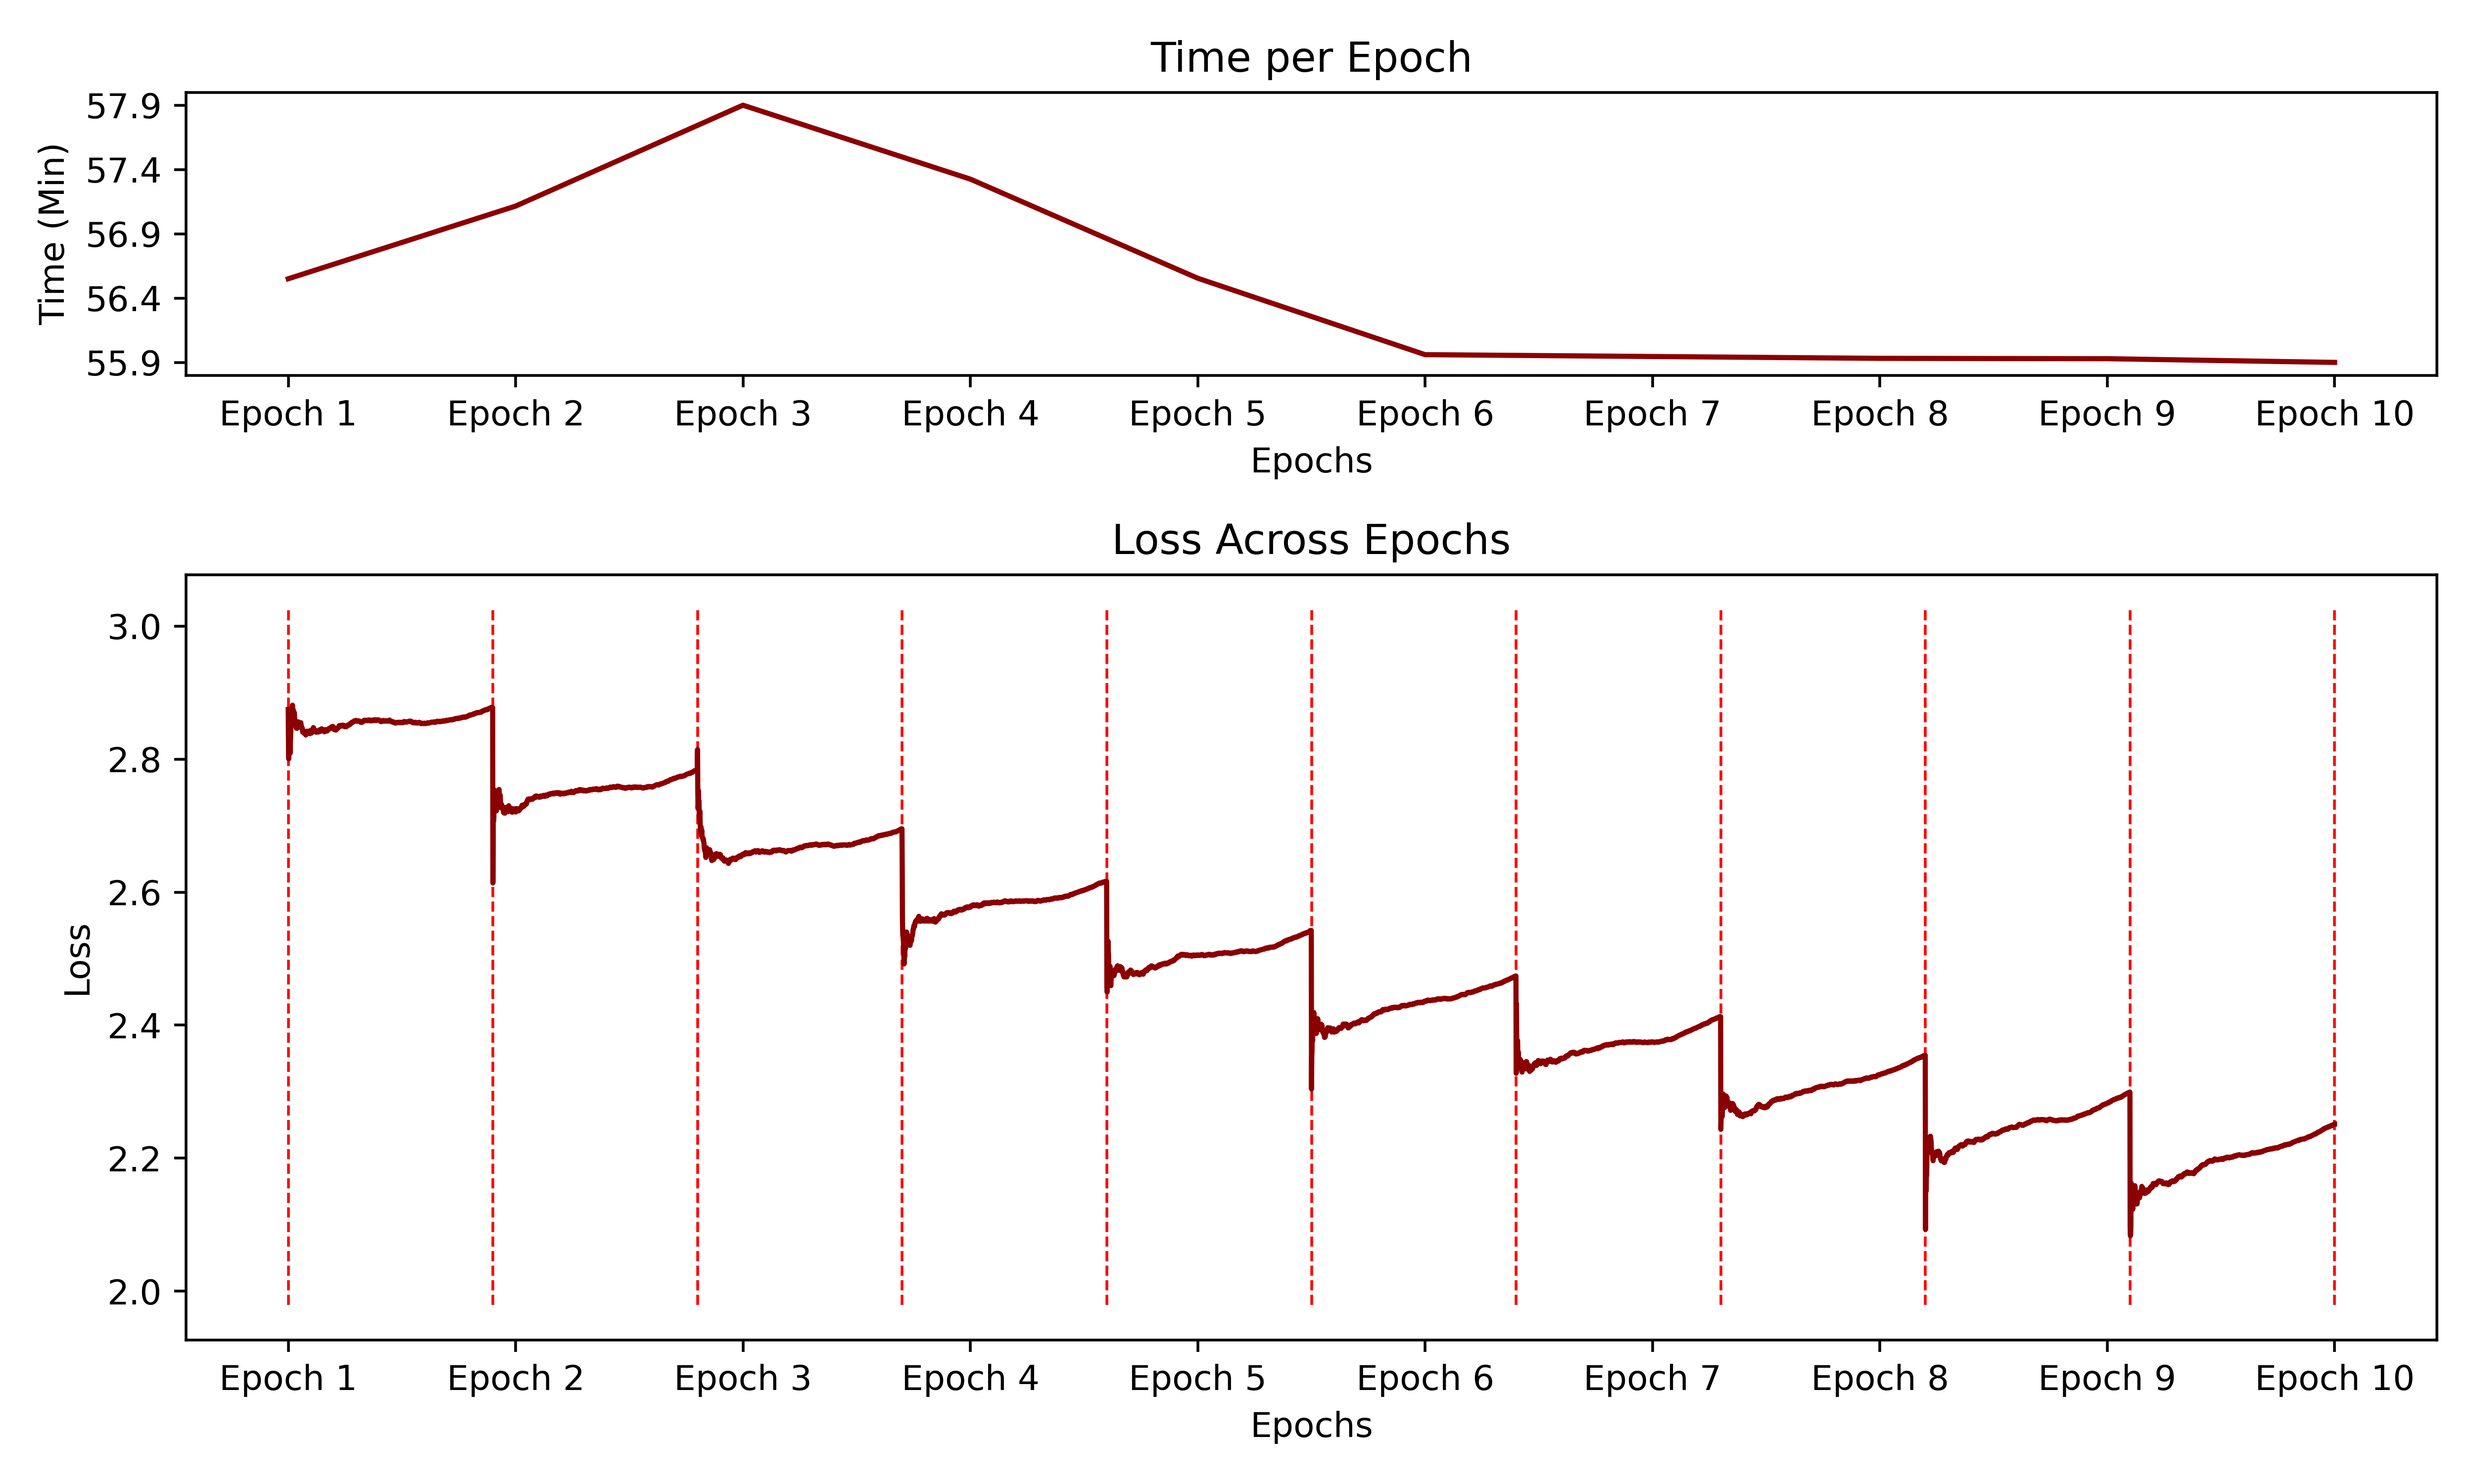
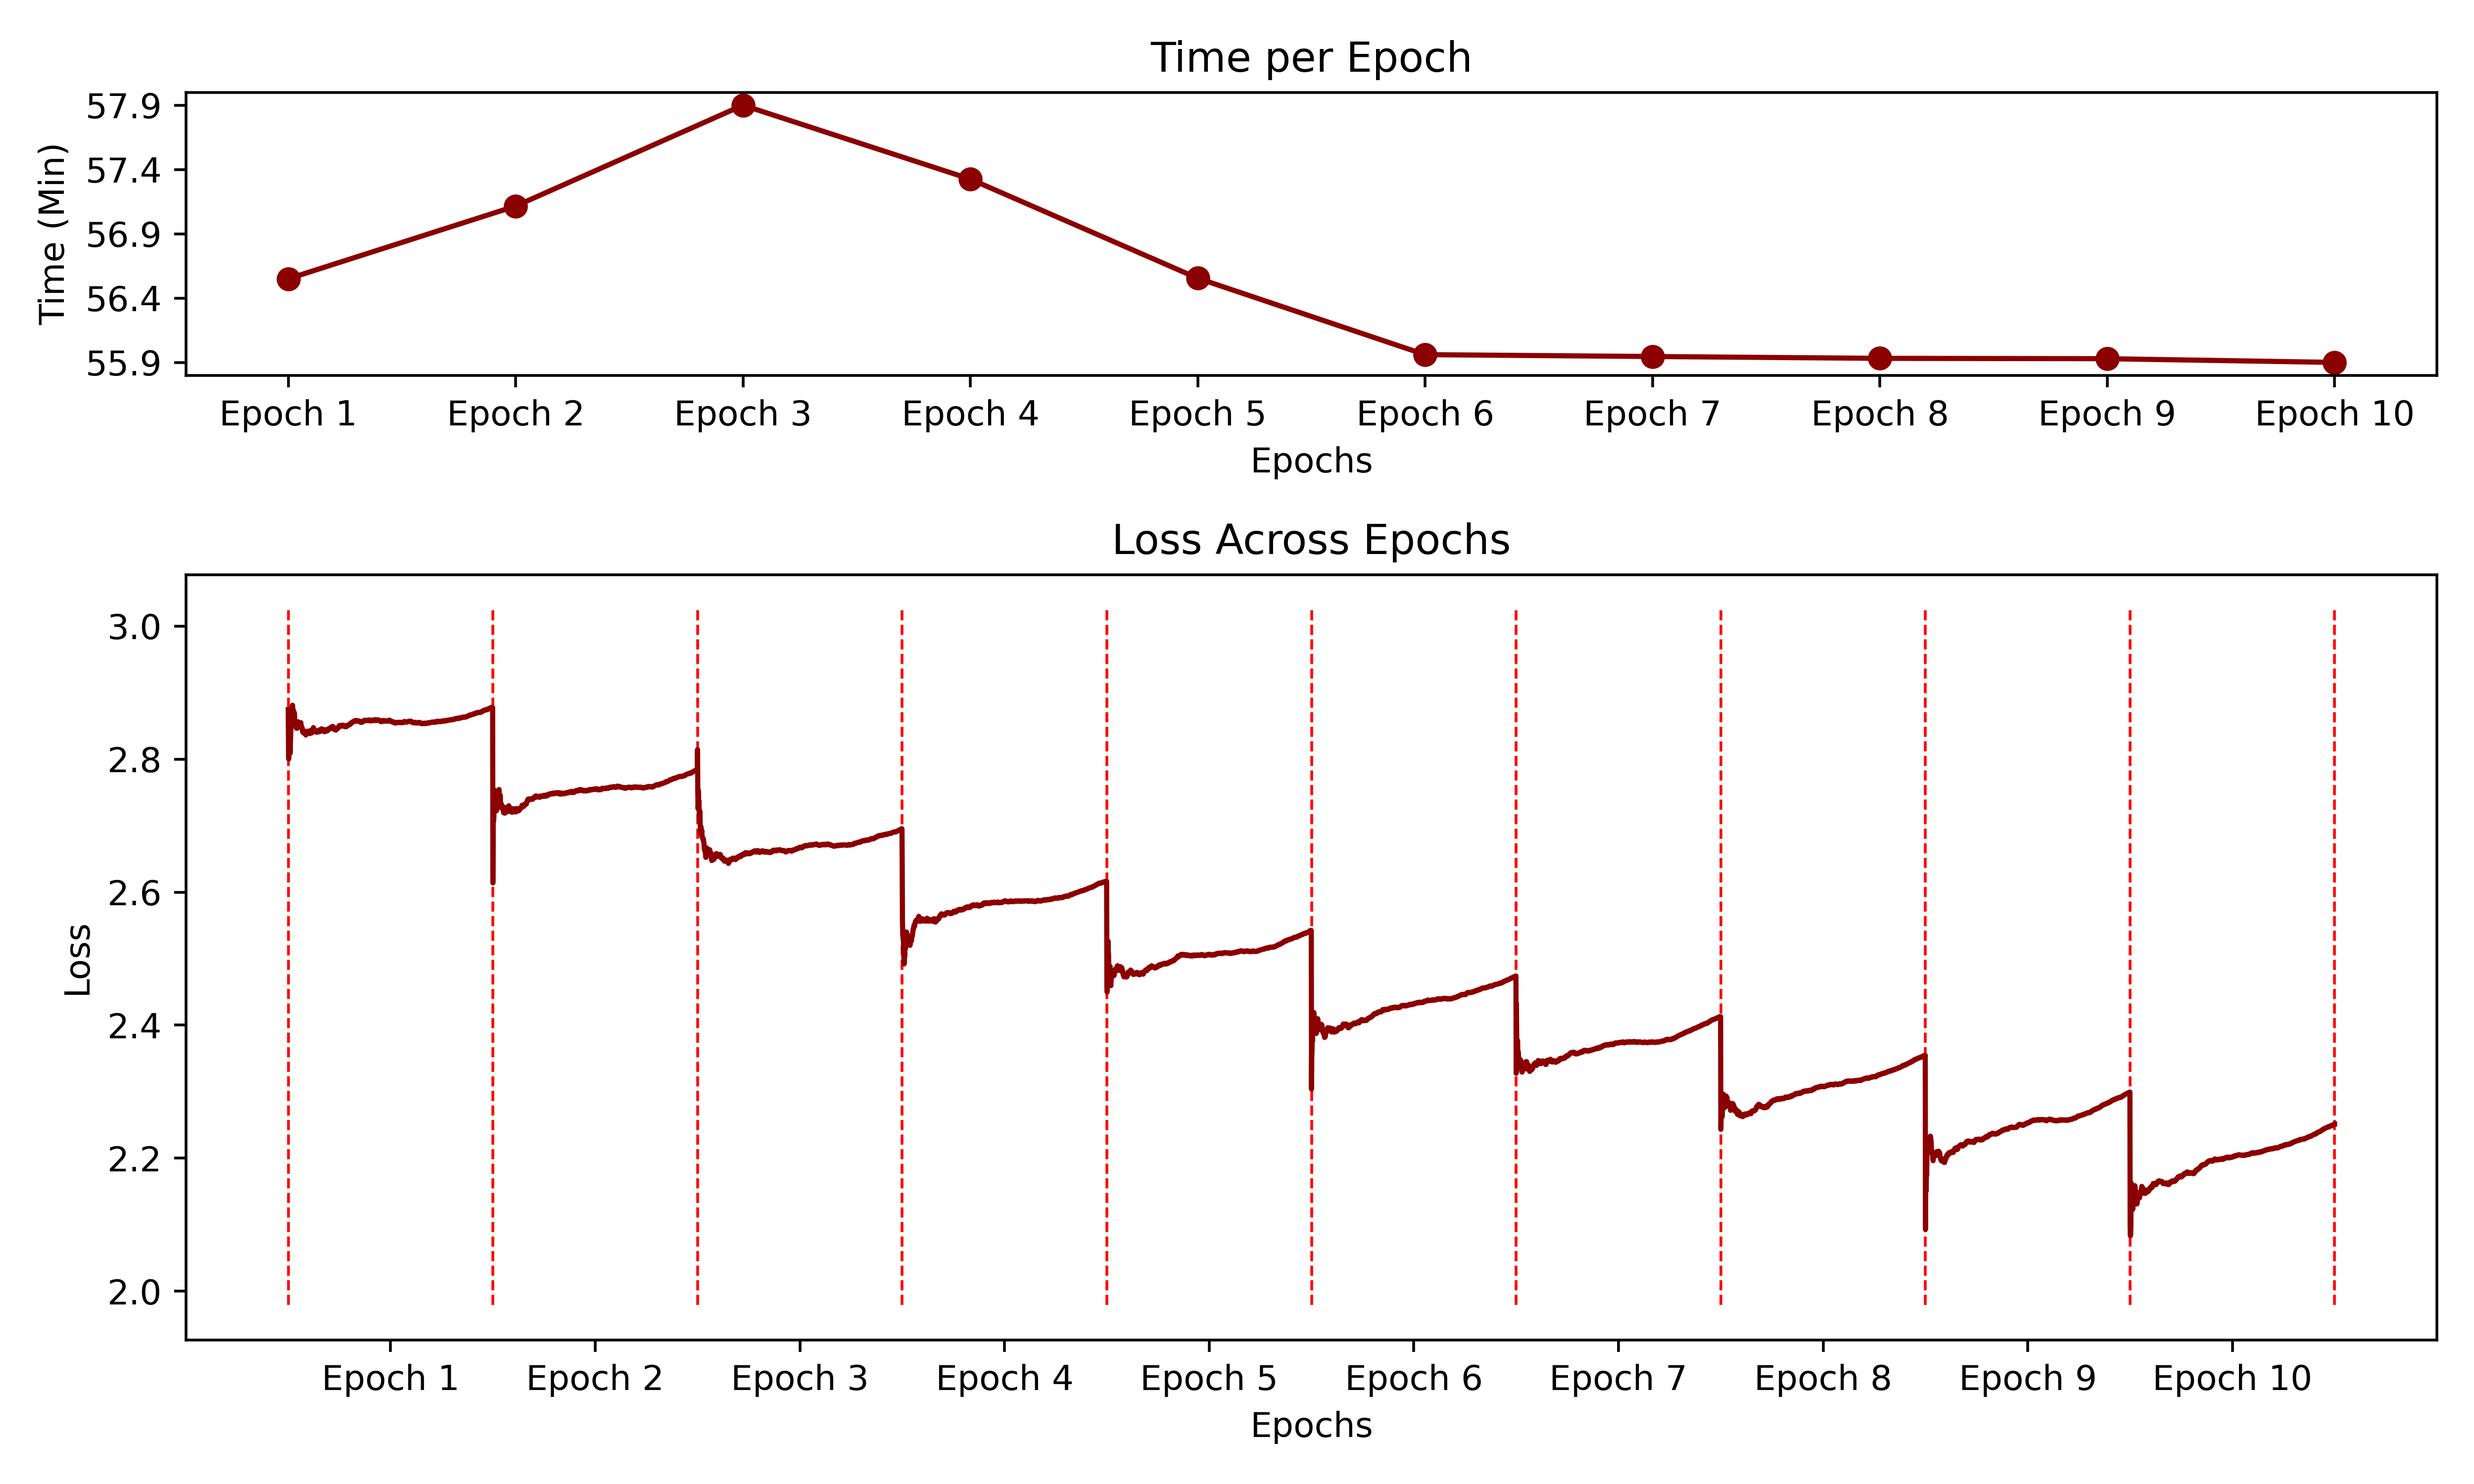
fix: xticks location in loss plot

diff --git a/text-summarizing/LearningPlot.py b/text-summarizing/LearningPlot.py
@@ -49,8 +49,8 @@ class LearningPlot:
                 print('[PROMPT] Ignored line')
 
     def plot_metrics(self):
-        plt.rcParams['text.usetex'] = True
-        plt.rcParams['font.family'] = 'serif'
+        plt.rc('text', usetex=True)
+        plt.rc('font', family='serif')
         set_epochs = set(self.metric_data[self.EPOCH])
         epochs = list(set_epochs)
         data_per_epoch = [[] for _ in epochs]
@@ -60,14 +60,19 @@ class LearningPlot:
         xs = list(np.linspace(0, 1000, len(self.metric_data[self.LOSS]), endpoint=True))
         line_height = max(self.metric_data[self.LOSS])
         line_start = min(self.metric_data[self.LOSS])
+        xticks = []
 
         epoch_lines.append([[min(xs), min(xs)], [line_start-line_start*0.05, line_height+line_height*0.05]])
+        xticks.append(min(xs))
         for i in range(len(self.metric_data[self.LOSS])):
             data_per_epoch[self.metric_data[self.EPOCH][i]-1].append(self.metric_data[self.LOSS][i])
             if last_index != (self.metric_data[self.EPOCH][i]-1):
                 last_index = self.metric_data[self.EPOCH][i]-1
                 epoch_lines.append([[xs[i], xs[i]], [line_start-line_start*0.05, line_height+line_height*0.05]])
+                xticks.append(xs[i])
         epoch_lines.append([[max(xs), max(xs)], [line_start-line_start*0.05, line_height+line_height*0.05]])
+        mid_xticks = [(xticks[i] + xticks[i+1]) * 0.5 for i in range(len(xticks)-1)]
+        mid_xticks.append(abs(xticks[-1] - xticks[-2]) + mid_xticks[-1])
 
         for e in range(len(epoch_lines)):
             self.ax_metric.plot(epoch_lines[e][0], epoch_lines[e][1], color='red', linestyle='--', linewidth=0.8)
@@ -79,12 +84,12 @@ class LearningPlot:
         self.ax_metric.set_title(r'Loss Across Epochs')
 
         xlabels = [f'Epoch {i}' for i in epochs]
-        self.ax_metric.set_xticks(list(np.linspace(min(xs), max(xs), len(epochs))))
+        self.ax_metric.set_xticks(mid_xticks)
         self.ax_metric.set_xticklabels(xlabels)
 
         # time plot
         xs = list(range(len(epochs)))
-        self.ax_time.plot(xs, np.array(self.time_data[self.TIME]) / 60.0, color='darkred')
+        self.ax_time.plot(xs, np.array(self.time_data[self.TIME]) / 60.0, color='darkred', marker='o')
         self.ax_time.set_xlabel(r'Epochs')
         self.ax_time.set_ylabel(r'Time (Min)')
         self.ax_time.set_title(r'Time per Epoch')
